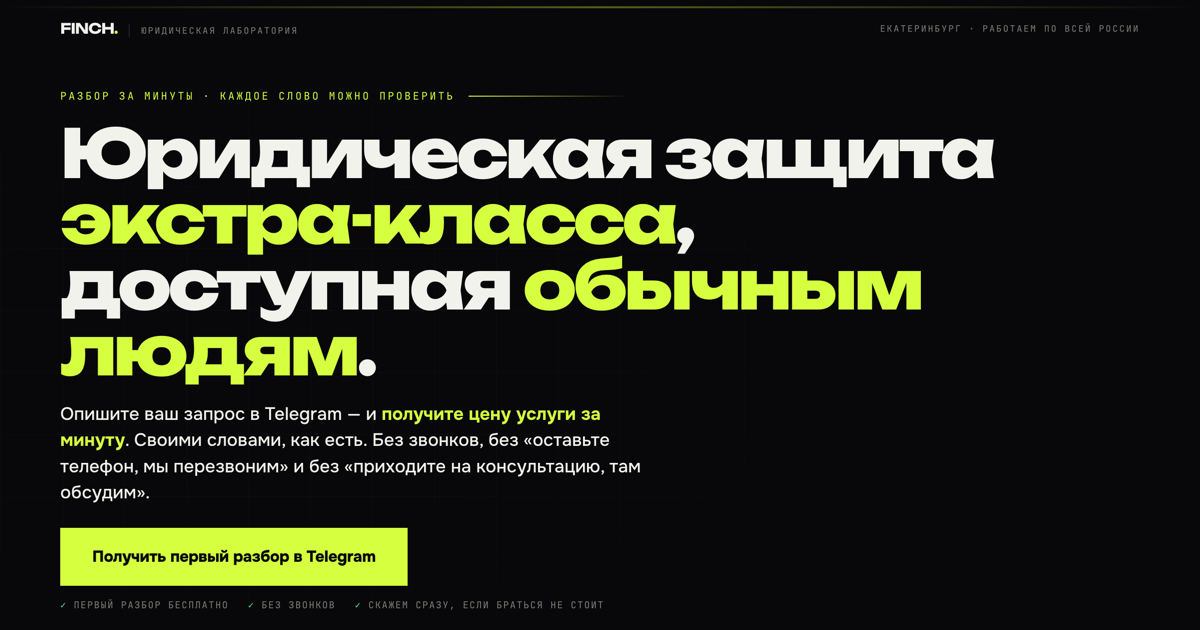
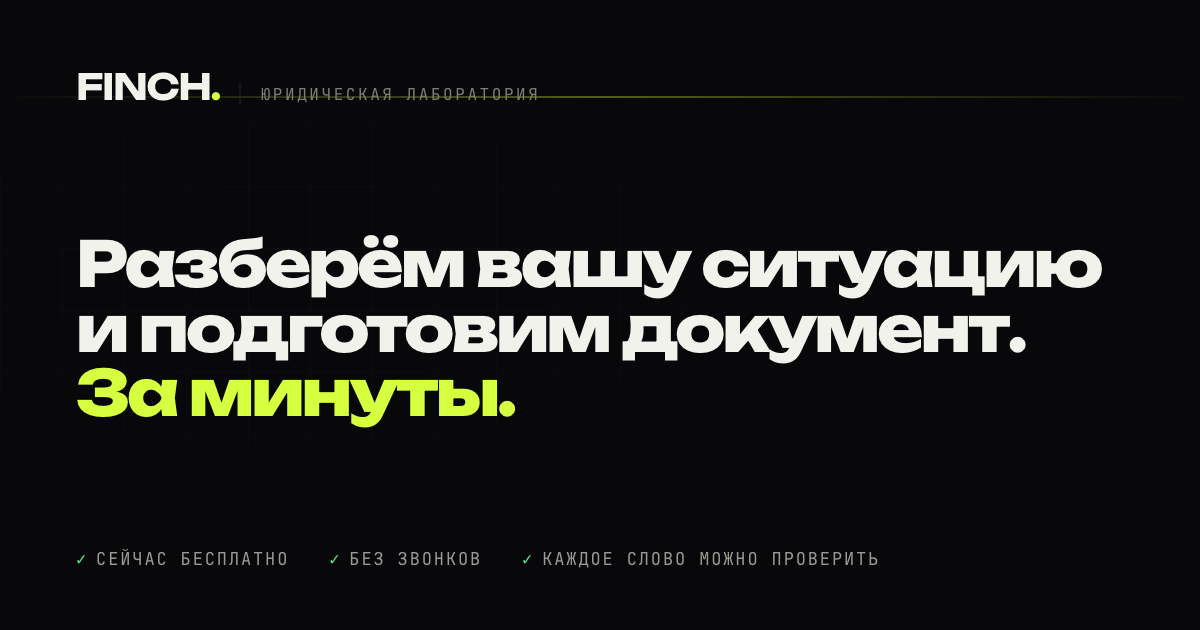
feat(site): убраны продажи, кейсы вместо истории, бот-ссылки, каркас Метрики (#3)
Синхронизация с donalddunn/finch-brand (docs/), коммит b046f30.

Правки Вовы 12.08 под запуск Директа + упрощение по решению Артура:
кнопки ведут в бота (t.me/finch_lab_bot?start=site), цены и реквизиты
ИП Полежаевой убраны полностью (включая перерисованный og-image.png),
секция «Откуда мы» заменена шестью бытовыми кейсами + кейс няни,
процесс сведён к 3 шагам без денег, каркас Яндекс.Метрики за гейтом
YM_ID=null с целью tg_click на клик по TG-кнопкам.

diff --git a/index.html b/index.html
@@ -3,12 +3,12 @@
 <head>
 <meta charset="utf-8">
 <meta name="viewport" content="width=device-width, initial-scale=1">
-<title>Finch — юридическая защита экстра-класса, доступная обычным людям</title>
-<meta name="description" content="Опишите ваш запрос в Telegram — и получите цену услуги за минуту. Разбор дела с нормой в действующей редакции и практикой, которую можно проверить. Если дойдёт до суда — подберём юриста и передадим готовое дело.">
+<title>Finch — юридический бот в Telegram: разбор ситуации и готовый документ</title>
+<meta name="description" content="Опишите ситуацию своими словами в Telegram — Финч разберёт её по закону, даст план действий и подготовит готовый документ: претензию, заявление, ответ. Файлом, а не словами. Каждое утверждение — с источником, который можно проверить. Сейчас бесплатно.">
 <meta property="og:type" content="website">
 <meta property="og:site_name" content="Finch">
-<meta property="og:title" content="Finch — юридическая лаборатория">
-<meta property="og:description" content="Юридическая защита экстра-класса, доступная обычным людям. Опишите запрос в Telegram — получите цену услуги за минуту. Каждое утверждение с источником, который вы сверите сами.">
+<meta property="og:title" content="Finch — юридический бот: не совет, а готовый документ">
+<meta property="og:description" content="Ремонт «на словах», взнос в садике, списанная страховка, счёт от УК — опишите как есть. Финч даст план действий и готовый документ файлом. Сейчас бесплатно.">
 <meta property="og:locale" content="ru_RU">
 <!-- Абсолютные адреса: при переезде на домен НейроПроекта заменить хост в og:url и og:image -->
 <meta property="og:url" content="https://finch.neuroproject.tech/">
@@ -16,10 +16,10 @@
 <meta property="og:image:type" content="image/png">
 <meta property="og:image:width" content="1200">
 <meta property="og:image:height" content="630">
-<meta property="og:image:alt" content="Finch — юридическая защита экстра-класса, доступная обычным людям">
+<meta property="og:image:alt" content="Finch — юридический бот в Telegram: план действий и готовый документ">
 <meta name="twitter:card" content="summary_large_image">
-<meta name="twitter:title" content="Finch — юридическая лаборатория">
-<meta name="twitter:description" content="Юридическая защита экстра-класса, доступная обычным людям. Опишите запрос в Telegram — получите цену услуги за минуту.">
+<meta name="twitter:title" content="Finch — юридический бот: не совет, а готовый документ">
+<meta name="twitter:description" content="Опишите ситуацию в Telegram — Финч разберёт её по закону и подготовит готовый документ. Сейчас бесплатно.">
 <meta name="twitter:image" content="https://finch.neuroproject.tech/og-image.png">
 <link rel="canonical" href="https://finch.neuroproject.tech/">
 <meta name="theme-color" content="#08080A">
@@ -81,9 +81,6 @@ h1 em{font-style:normal;color:var(--a)}
 .cta .under{display:flex;gap:1.2rem;flex-wrap:wrap;margin-top:.8rem;font-family:var(--mono);
   font-size:9.5px;letter-spacing:.11em;text-transform:uppercase;color:var(--ink-3)}
 .cta .under .tick{color:var(--ok);font-style:normal}
-.riskline{font-size:.88rem;color:var(--ink-2);margin:1rem 0 0;display:flex;align-items:flex-start;
-  gap:.5rem;animation:up .8s .32s both}
-.riskline .tick{color:var(--ok);font-style:normal;font-weight:700}
 .proof{display:flex;flex-direction:column;gap:.8rem;margin-top:1.6rem;padding-top:1.1rem;
   border-top:1px solid var(--line);animation:up .8s .4s both}
 .proof div{font-family:var(--mono);font-size:9.5px;letter-spacing:.13em;text-transform:uppercase;color:var(--ink-3)}
@@ -109,6 +106,7 @@ h1 em{font-style:normal;color:var(--a)}
 .obox p b{color:var(--ink);font-weight:600}
 .obox.us{background:#121608}
 .obox.us h3{color:var(--a)}
+.obox.wide{grid-column:1/-1}
 
 /* ═══ 3. КАК ПРОИСХОДИТ РАБОТА ═══ */
 .steps{border:1px solid var(--line);background:var(--card)}
@@ -158,9 +156,6 @@ h1 em{font-style:normal;color:var(--a)}
 footer{padding:1.8rem 0 2.2rem;border-top:1px solid var(--line);font-family:var(--mono);font-size:9px;
   letter-spacing:.13em;text-transform:uppercase;color:var(--ink-3)}
 footer .row{display:flex;gap:1.2rem;flex-wrap:wrap;align-items:center}
-footer .legal{margin-top:1rem;display:flex;flex-direction:column;gap:.35rem;letter-spacing:.09em;
-  text-transform:none;line-height:1.7}
-footer .legal span{display:block}
 
 .sticky{position:fixed;left:0;right:0;bottom:0;z-index:60;display:block;background:var(--a);color:#08080A;
   text-align:center;text-decoration:none;font-weight:800;font-size:1rem;padding:1.05em 1rem;
@@ -191,6 +186,21 @@ footer .legal span{display:block}
 </head>
 <body id="top">
 
+<!-- Яндекс.Метрика. Чтобы включить: заменить null на номер счётчика (var YM_ID = 12345678;)
+     и YM_COUNTER_ID в noscript-пикселе. Цель для Директа: JavaScript-событие «tg_click». -->
+<script>
+var YM_ID = null;
+if (YM_ID) {
+  (function(m,e,t,r,i,k,a){m[i]=m[i]||function(){(m[i].a=m[i].a||[]).push(arguments)};
+  m[i].l=1*new Date();
+  for (var j = 0; j < document.scripts.length; j++) {if (document.scripts[j].src === r) { return; }}
+  k=e.createElement(t),a=e.getElementsByTagName(t)[0],k.async=1,k.src=r,a.parentNode.insertBefore(k,a)})
+  (window, document, "script", "https://mc.yandex.ru/metrika/tag.js", "ym");
+  ym(YM_ID, "init", {clickmap:true, trackLinks:true, accurateTrackBounce:true});
+}
+</script>
+<noscript><div><img src="https://mc.yandex.ru/watch/YM_COUNTER_ID" style="position:absolute;left:-9999px" alt=""></div></noscript>
+
 <div class="bar">
   <div class="wmwrap">
     <div class="wm">FINCH<u>.</u></div>
@@ -203,51 +213,69 @@ footer .legal span{display:block}
 <section class="hero">
   <div class="grid"></div><div class="scan"></div>
   <div class="wrap in">
-    <div class="kick">Разбор за минуты · каждое слово можно проверить</div>
-    <h1>Юридическая защита <em>экстра-класса</em>, доступная <em>обычным людям</em>.</h1>
-    <p class="promise">Опишите ваш запрос в Telegram — и <b>получите цену услуги за минуту</b>. Своими словами, как есть. Без звонков, без «оставьте телефон, мы перезвоним» и без «приходите на консультацию, там обсудим».</p>
+    <div class="kick">Юридический бот в Telegram · каждое слово можно проверить</div>
+    <h1>Разберём вашу ситуацию и подготовим документ. <em>За минуты.</em></h1>
+    <p class="promise">Опишите, что случилось, своими словами в Telegram. Финч разберёт ситуацию, скажет, что делать и что не сработает, — и подготовит <b>готовый документ: вам останется подписать и отправить</b>. Без звонков, без «оставьте телефон, мы перезвоним».</p>
 
     <div class="cta">
-      <a class="b1" data-tg href="https://t.me/finch_lab">Получить первый разбор в Telegram</a>
+      <a class="b1" data-tg href="https://t.me/finch_lab_bot?start=site">Разобрать мою ситуацию в Telegram</a>
       <div class="under">
-        <span><i class="tick">✓</i> Первый разбор бесплатно</span>
+        <span><i class="tick">✓</i> Сейчас бесплатно</span>
         <span><i class="tick">✓</i> Без звонков</span>
-        <span><i class="tick">✓</i> Скажем сразу, если браться не стоит</span>
+        <span><i class="tick">✓</i> Скажем сразу, если дело того не стоит</span>
       </div>
     </div>
-
-    <p class="riskline"><i class="tick">✓</i> Цена считается под ваше дело, а не берётся из прайса. Не увидите пользы — вернём деньги.</p>
 
     <div class="proof">
       <div><b>норма с редакцией</b>не пересказ, а цитата</div>
       <div><b>дело с номером</b>найдёте в картотеке сами</div>
-      <div><b>подпись юриста</b>подберём под ваше дело, если дойдёт до суда</div>
+      <div><b>документ файлом</b>остаётся подписать и отправить</div>
     </div>
   </div>
 </section>
 
-<!-- ═══ 2. ОТКУДА МЫ ═══ -->
-<section id="origin">
+<!-- ═══ 2. КОГДА ЭТО НУЖНО ═══ -->
+<section id="cases">
   <div class="wrap">
-    <span class="cap">Откуда мы</span>
-    <h2 class="h2">Мы пришли <em>с другого рынка</em>.</h2>
-    <p class="lede">Мы разрабатываем ИИ-агентов для крупных компаний: наши решения работают в контурах бизнесов с миллиардной выручкой — помогают администрировать учёт и документооборот. А потом мы посмотрели на рынок юридических услуг для обычных людей — и не поверили, что так ещё бывает.</p>
+    <span class="cap">Когда это нужно</span>
+    <h2 class="h2">Ситуации, с которыми <em>к юристу обычно не идут</em>.</h2>
+    <p class="lede">Споры «не на миллион»: идти к юристу кажется дорого и долго, а спустить на тормозах — обидно. Именно такие Финч разбирает лучше всего — <b>что говорит закон, какие шансы и какой документ отправить</b>.</p>
 
     <div class="origin">
       <div class="obox">
         <span class="n">01</span>
-        <h3>Там девяностые</h3>
-        <p>Консультация через неделю. Цена после консультации. Что внутри — непонятно.</p>
+        <h3>Ремонт «на словах»</h3>
+        <p>Нанимали бригаду, договорились устно — работы встали, аванс уехал. Финч покажет, чем подтвердить договорённость без договора, и подготовит <b>претензию подрядчику</b>.</p>
       </div>
       <div class="obox">
         <span class="n">02</span>
-        <h3>А работа уже автоматизирована</h3>
-        <p>Самую дорогую часть работы юриста — подготовку: норма, практика, проверка второй стороны — <b>наши агенты делают за минуты. Каждый день. Внутри корпораций.</b></p>
+        <h3>«Добровольный взнос» в садике</h3>
+        <p>Объявили сбор «на нужды группы». Финч разберёт, что здесь законно, а что нет, и соберёт <b>заявление заведующей</b> — или обращение в департамент образования.</p>
       </div>
-      <div class="obox us">
+      <div class="obox">
         <span class="n">03</span>
-        <h3>Решение заняло 15 минут</h3>
-        <p>Взять один из наших продуктов и выложить в общий доступ — <b>практически бесплатно относительно того, сколько это стоит корпорациям.</b> Первый оплаченный разбор пришёл через час после запуска.</p>
+        <h3>Доставка с трещиной</h3>
+        <p>Приняли шкаф — а на дверце трещина. Подписанный при получении акт ещё не приговор: Финч подскажет сроки и подготовит <b>претензию продавцу</b>.</p>
+      </div>
+      <div class="obox">
+        <span class="n">04</span>
+        <h3>Спор с эвакуатором</h3>
+        <p>Машину увезли или поцарапали при погрузке. Финч проверит, была ли эвакуация законной, и подготовит <b>жалобу</b> или заявление о возврате уплаченного.</p>
+      </div>
+      <div class="obox">
+        <span class="n">05</span>
+        <h3>Банк списал страховку</h3>
+        <p>Списание за страховку, которую вы не помните, чтобы подключали. Финч найдёт основание для отказа и соберёт <b>заявление на возврат</b>.</p>
+      </div>
+      <div class="obox">
+        <span class="n">06</span>
+        <h3>Непонятное в квитанции УК</h3>
+        <p>Строки, которых раньше не было. Финч объяснит, что управляющая компания обязана расшифровать, и подготовит <b>заявление на перерасчёт</b>.</p>
+      </div>
+      <div class="obox us wide">
+        <span class="n">Реальный вопрос из бота</span>
+        <h3>Няня работает без договора — положен ли ей отпуск?</h3>
+        <p>Финч разобрал, чем рискуют обе стороны без оформления, и предложил, как закрепить договорённость документом — <b>не подставив ни няню, ни семью</b>.</p>
       </div>
     </div>
   </div>
@@ -256,34 +284,30 @@ footer .legal span{display:block}
 <!-- ═══ 3. КАК ПРОИСХОДИТ РАБОТА ═══ -->
 <section id="how">
   <div class="wrap">
-    <span class="cap">Как происходит работа с нами</span>
-    <h2 class="h2">Вы пишете как есть. <em>Дальше работаем мы.</em></h2>
-    <p class="lede">У юристов процесс — тайна за семью печатями: «приходите, разберёмся». У нас — вот он, целиком. Finch — юридическая лаборатория: как лаборатория делает анализы, а лечит врач. Мы готовим дело, а если спор доходит до суда — в него идёт живой юрист.</p>
+    <span class="cap">Как это работает</span>
+    <h2 class="h2">Вы пишете как есть. <em>Дальше работает Финч.</em></h2>
+    <p class="lede">Без анкет, звонков и визитов. От первого сообщения до готового файла — <b>один чат в Telegram</b>.</p>
 
     <div class="grid2">
       <div class="steps">
         <div class="step us">
-          <div class="hd"><h3>01 · Собираем информацию</h3><span class="tag">Реестры · нормы · практика</span></div>
-          <p>Ваши документы и факты. Проверка второй стороны по государственным реестрам. Норма в действующей редакции и живая практика с номерами дел. <b>За каждым утверждением — источник, который вы сверите сами.</b></p>
+          <div class="hd"><h3>01 · Напишите как есть</h3><span class="tag">Своими словами</span></div>
+          <p>Расскажите так, как рассказали бы знакомому. Документы и фото можно приложить прямо в чат — но можно и без них.</p>
         </div>
         <div class="step">
-          <div class="hd"><h3>02 · Оформляем её в позицию</h3><span class="tag">Главный документ дела</span></div>
-          <p>Что у вас произошло <b>юридически</b>, а не как это выглядит. Какая линия, какие шаги, какие риски и <b>что не сработает</b>. Всё остальное строится на позиции.</p>
+          <div class="hd"><h3>02 · Финч уточнит пару вопросов</h3><span class="tag">2–3 вопроса, не анкета</span></div>
+          <p>Спросит только то, от чего зависит план: даты, суммы, что подписывали. <b>Ничего лишнего.</b></p>
         </div>
         <div class="step">
-          <div class="hd"><h3>03 · Делаем документы. Поэтапно</h3><span class="tag">Сначала — без суда</span></div>
-          <p>Сначала претензия — многие споры заканчиваются на ней, без суда, и это хороший исход. Не сработала — готовим судебные документы: иск, отзыв, ходатайства. <b>Каждый этап отдельно: вы платите только за то, что нужно вашему делу.</b></p>
+          <div class="hd"><h3>03 · Получите разбор и готовый документ</h3><span class="tag">Файлом, а не словами</span></div>
+          <p>Что произошло <b>юридически</b>, какие шаги и <b>что не сработает</b>. И документ — претензия, заявление, ответ, — который остаётся подписать и отправить. За каждым утверждением источник: норма в действующей редакции, дело с номером.</p>
         </div>
-        <div class="step">
-          <div class="hd"><h3>04 · Если доходит до суда — юриста подбираем мы</h3><span class="tag">Не «вот вам список»</span></div>
-          <p>Смотрим на <b>совпадение опыта юриста с категорией вашего дела</b> и на локацию — суд ваш, город ваш. Он получает готовую позицию и собранное дело — и идёт в суд от своего имени и под своей ответственностью.</p>
-        </div>
-        <div class="stepsft"><i class="tick">✓</i> На каждом шаге вы знаете цену и срок до оплаты &nbsp;·&nbsp; <i class="tick">✓</i> На любом шаге можно остановиться</div>
+        <div class="stepsft"><i class="tick">✓</i> Каждое утверждение — с источником &nbsp;·&nbsp; <i class="tick">✓</i> Скажем сразу, если браться не стоит</div>
       </div>
 
       <div class="chatwrap">
         <div class="chathd">
-          <span>Так выглядит первый разбор</span>
+          <span>Так выглядит разбор</span>
           <span class="live"><i></i>вживую</span>
         </div>
         <div class="chat" id="chat">
@@ -293,15 +317,15 @@ footer .legal span{display:block}
           <div class="msg it" data-d="5200">Значит задача не «обойти запрет», а снять его в связке со сделкой. <b>Рабочий ход:</b> покупатель вносит часть цены прямо на депозит приставов за вас. Пристав оканчивает производство и снимает запрет — дальше договор и ГИБДД.</div>
           <div class="msg it" data-d="7400"><b>Что не сработает:</b> продать в обход пристава. Самостоятельная реализация разрешена только до установленного порога стоимости — ваш случай в него не попадает.</div>
           <div class="msg src" data-d="9000">Опора: нормы закона об исполнительном производстве и ГК — дословно, с действующей редакцией · судебные дела с номерами</div>
-          <div class="msg it" data-d="10600"><b>Один вопрос, от которого зависит план:</b> назовите ИНН. По нему подниму все производства. Если их несколько и в сумме больше стоимости машины — снятие запрета по одному ничего не даст. После этого назову цену и срок.</div>
+          <div class="msg it" data-d="10600"><b>Один вопрос, от которого зависит план:</b> назовите ИНН. По нему подниму все производства. Если их несколько и в сумме больше стоимости машины — снятие запрета по одному ничего не даст. После этого соберу план и подготовлю документы.</div>
         </div>
         <div class="chatft">Реальный запрос · пример разбора</div>
       </div>
     </div>
 
     <div class="close">
-      <p><b>Вы отвечаете только за решение</b> — идти в спор или нет. Но принимаете его, зная цену, срок, риски и то, что не сработает. А не вслепую.</p>
-      <a class="b1" data-tg href="https://t.me/finch_lab">Описать своё дело в Telegram</a>
+      <p><b>Вы отвечаете только за решение</b> — идти в спор или нет. Но принимаете его, зная шаги, риски и то, что не сработает. А не вслепую.</p>
+      <a class="b1" data-tg href="https://t.me/finch_lab_bot?start=site">Описать своё дело в Telegram</a>
     </div>
   </div>
 </section>
@@ -312,24 +336,22 @@ footer .legal span{display:block}
       <span>FINCH · Юридическая лаборатория</span>
       <span>Екатеринбург · работаем по всей России</span>
     </div>
-    <!-- Юридическая информация. Адрес и e-mail добавить, когда пришлют реквизиты (ждём от Петра) -->
-    <div class="legal">
-      <span>Индивидуальный предприниматель Полежаева Мария Николаевна · ИНН 861902828740 · ОГРНИП 323665800045219</span>
-      <span>Дата государственной регистрации: 06.03.2023 · Межрайонная ИФНС России № 25 по Свердловской области</span>
-      <span>Адрес: — · E-mail: — <!-- TODO: заполнить из реквизитов --></span>
-      <span>Информация на сайте не является публичной офертой (ст. 437 ГК РФ). Стоимость услуг определяется индивидуально по конкретному делу и сообщается до оплаты.</span>
-      <span>Обращаясь к нам в Telegram, вы соглашаетесь на обработку персональных данных, необходимых для ответа на ваш запрос (152-ФЗ).</span>
-    </div>
   </div>
 </footer>
 
-<a class="sticky" data-tg href="https://t.me/finch_lab">Получить первый разбор в Telegram</a>
+<a class="sticky" data-tg href="https://t.me/finch_lab_bot?start=site">Разобрать мою ситуацию в Telegram</a>
 
 <script>
-// ═══ Точка входа: ссылка на Telegram. Канал «FINCH. Юридическая лаборатория». ═══
+// ═══ Точка входа: бот @finch_lab_bot. Параметр start=site помечает переходы с сайта
+// (реклама Директа ведёт на этот же сайт, поэтому здесь всегда site). ═══
 // Тот же адрес продублирован в href каждой кнопки — чтобы работало и без JS.
-var TG_LINK = 'https://t.me/finch_lab';
-[].forEach.call(document.querySelectorAll('a[data-tg]'), function(a){ a.href = TG_LINK; });
+var TG_LINK = 'https://t.me/finch_lab_bot?start=site';
+[].forEach.call(document.querySelectorAll('a[data-tg]'), function(a){
+  a.href = TG_LINK;
+  a.addEventListener('click', function(){ // конверсия для Директа; sendBeacon переживает уход со страницы
+    if (window.YM_ID && typeof ym === 'function') ym(window.YM_ID, 'reachGoal', 'tg_click');
+  });
+});
 
 (function(){
   var chat = document.getElementById('chat');
